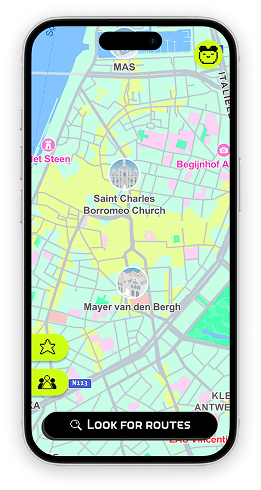
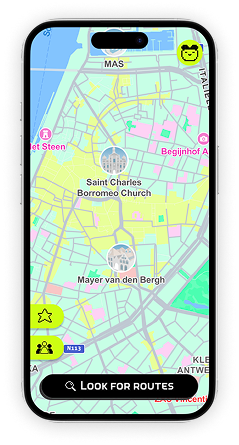
carousel with gsap and chat

Changed region(s): [[0.0586, 0.0292, 0.9372, 0.964], [0.4686, 0.7596, 0.5272, 0.7888]]

diff --git a/urbAn/app/routes/landing.tsx b/urbAn/app/routes/landing.tsx
@@ -1,6 +1,12 @@
 import { Link } from "react-router";
 import { useState } from "react";
 
+import { useEffect } from "react";
+import { gsap } from "gsap";
+import { Draggable } from "gsap/Draggable";
+
+gsap.registerPlugin(Draggable);
+
 import qr from "../assets/qr-code.png";
 
 import image1 from "../assets/images/image-1.png";
@@ -35,6 +41,79 @@ const Landing = () => {
     setImagesState(!imagesState);
     console.log(imagesState);
   };
+
+  /*GSAP*/
+  useEffect(() => {
+    const images = gsap.utils.toArray(".app__showcase img");
+    const dots = gsap.utils.toArray(".app__dot");
+
+    let currentIndex = 0;
+    let autoSlide;
+
+    gsap.set(images, {
+      xPercent: 100,
+      opacity: 0,
+      scale: 0.9,
+    });
+
+    gsap.set(images[0], {
+      xPercent: 0,
+      opacity: 1,
+      scale: 1,
+    });
+
+    function updateDots(index) {
+      dots.forEach((dot, i) => {
+        dot.classList.toggle("app__dot--active", i === index);
+      });
+    }
+
+    function goToSlide(index) {
+      const nextIndex = gsap.utils.wrap(0, images.length, index);
+
+      if (nextIndex === currentIndex) return;
+
+      const direction = nextIndex > currentIndex ? 1 : -1;
+
+      gsap.to(images[currentIndex], {
+        xPercent: -100 * direction,
+        opacity: 0,
+        scale: 0.9,
+        duration: 0.6,
+        ease: "power2.inOut",
+      });
+
+      gsap.fromTo(
+        images[nextIndex],
+        {
+          xPercent: 100 * direction,
+          opacity: 0,
+          scale: 0.9,
+        },
+        {
+          xPercent: 0,
+          opacity: 1,
+          scale: 1,
+          duration: 0.6,
+          ease: "power2.inOut",
+        }
+      );
+
+      currentIndex = nextIndex;
+      updateDots(currentIndex);
+    }
+
+    function nextSlide() {
+      goToSlide(currentIndex + 1);
+    }
+
+    autoSlide = setInterval(nextSlide, 2500);
+
+    return () => {
+      clearInterval(autoSlide);
+    };
+  }, []);
+  /**/
 
   return (
     <>
@@ -3616,10 +3695,25 @@ const Landing = () => {
                   </svg>
                 </Link>
               </div>
-              <div className="app__showcase">
-                <img src={app_img1} alt="" />
-                <img src={app_img2} alt="" />
-                <img src={app_img3} alt="" />
+              <div className="app__showcase-section">
+                <div className="app__showcase">
+                  <img src={app_img1} alt="" />
+                  <img src={app_img2} alt="" />
+                  <img src={app_img3} alt="" />
+                </div>
+
+                <div className="app__dots">
+                  <span className="app__dot app__dot--active"></span>
+                  <span className="app__dot"></span>
+                  <span className="app__dot"></span>
+                </div>
+              </div>
+              <div className="app__showcase-section--desktop">
+                <div className="app__showcase--desktop">
+                  <img src={app_img1} alt="" />
+                  <img src={app_img2} alt="" />
+                  <img src={app_img3} alt="" />
+                </div>
               </div>
             </div>
             <svg

diff --git a/urbAn/app/app.css b/urbAn/app/app.css
@@ -653,12 +653,52 @@ button {
   font-weight: 700;
 }
 
-.app__showcase {
+.app__showcase-section--desktop {
   display: none;
+}
+
+.app__showcase-section {
+  position: relative;
+  display: flex;
+  flex-direction: column;
+  align-items: center;
+}
+
+.app__showcase {
+  position: relative;
+}
+
+.app__showcase img {
+  position: absolute;
+  top: 0;
+  left: 0;
+}
+
+.app__showcase img:first-child {
+  position: relative;
+}
+
+.app__dots {
+  display: flex;
+  justify-content: center;
+  gap: 0.6rem;
+}
+
+.app__dot {
+  width: 0.7rem;
+  height: 0.7rem;
+  border-radius: 50%;
+  background-color: var(--colour-pink-200);
+  display: block;
+}
+
+.app__dot--active {
+  background-color: var(--colour-pink-400);
 }
 
 .app__cta {
   margin: auto;
+  margin-top: var(--space-m);
 }
 
 .main__instructions {
@@ -1115,7 +1155,15 @@ li {
     margin-left: 0;
   }
 
-  .app__showcase {
+  .app__showcase-section {
+    display: none;
+  }
+
+  .app__showcase-section--desktop {
+    display: block;
+  }
+
+  .app__showcase--desktop {
     display: flex;
   }
 
